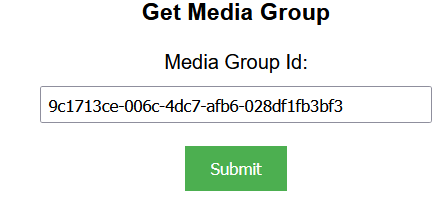
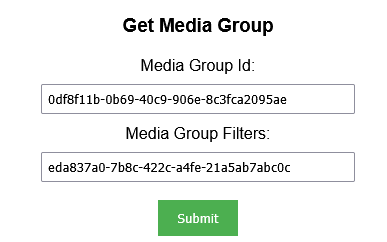
updated media sample

diff --git a/media/public/media-api.html b/media/public/media-api.html
@@ -43,8 +43,8 @@
         <label for="pageSize">Page Size:</label>
         <input type="text" id="pageSize">
 
-        <label for="ids">Ids (separated by comma):</label>
-        <input type="text" id="ids">
+        <label for="ids">Ids:</label>
+        <input type="text" id="ids" placeholder="e.g. id1,id2">
         
         <h3>Sort Fields</h3>
         <div id="sortFieldsDiv"></div>
@@ -74,6 +74,9 @@
     <form id="getMediaGroupForm">
         <label for="mediaGroupId">Media Group Id:</label>
         <input type="text" id="mediaGroupId" required>
+
+        <label for="mediaGroupFilters">Media Group Filters:</label>
+        <input type="text" id="mediaGroupFilters" placeholder="e.g. filter1,filter2">
 
         <br><br>
         <button type="submit">Submit</button>

diff --git a/media/public/media-api.js b/media/public/media-api.js
@@ -133,7 +133,8 @@ getMediaGroupForm.addEventListener("submit", async function (event)
     const formData = getElements(getMediaGroupForm);
 
     const mediaGroupId = formData.get("mediaGroupId");
-    const result = await nomadSdk.getMediaGroup(mediaGroupId);
+    const mediaGroupFilters = formData.get("mediaGroupFilters") === "" ? null : formData.get("mediaGroupFilters").split(',');
+    const result = await nomadSdk.getMediaGroup(mediaGroupId, mediaGroupFilters);
     console.log(result);
 });
 
@@ -294,4 +295,5 @@ function getElements(form)
             }
         }
     }
+    return formData;
 }
